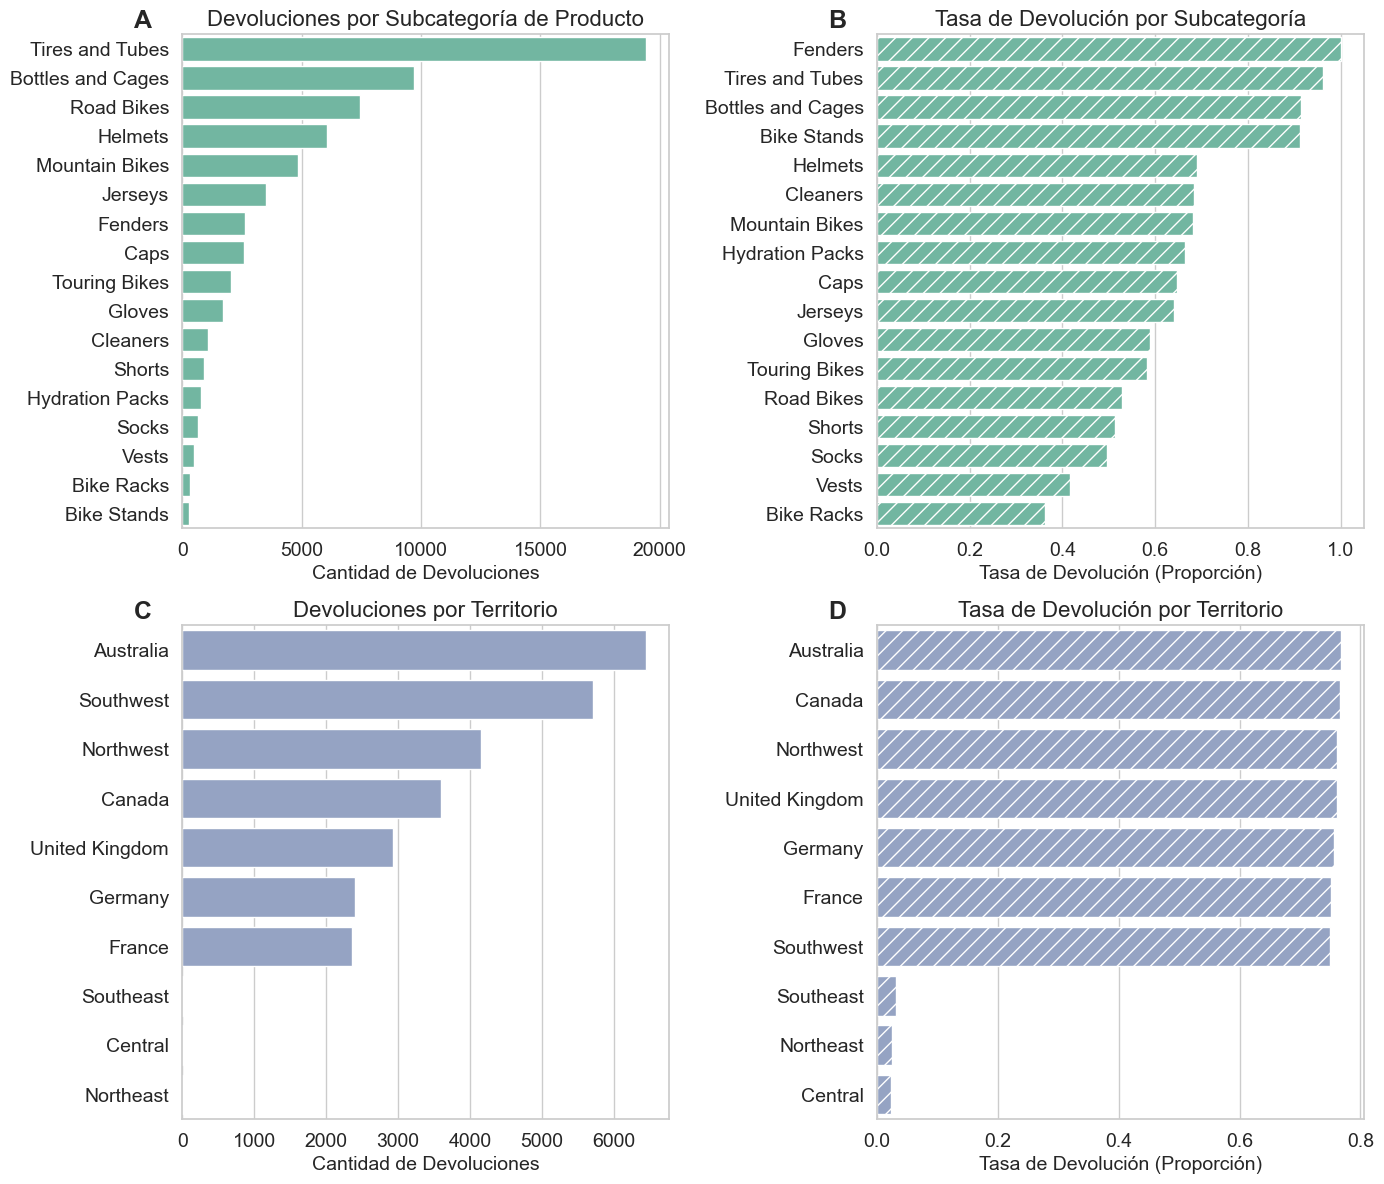
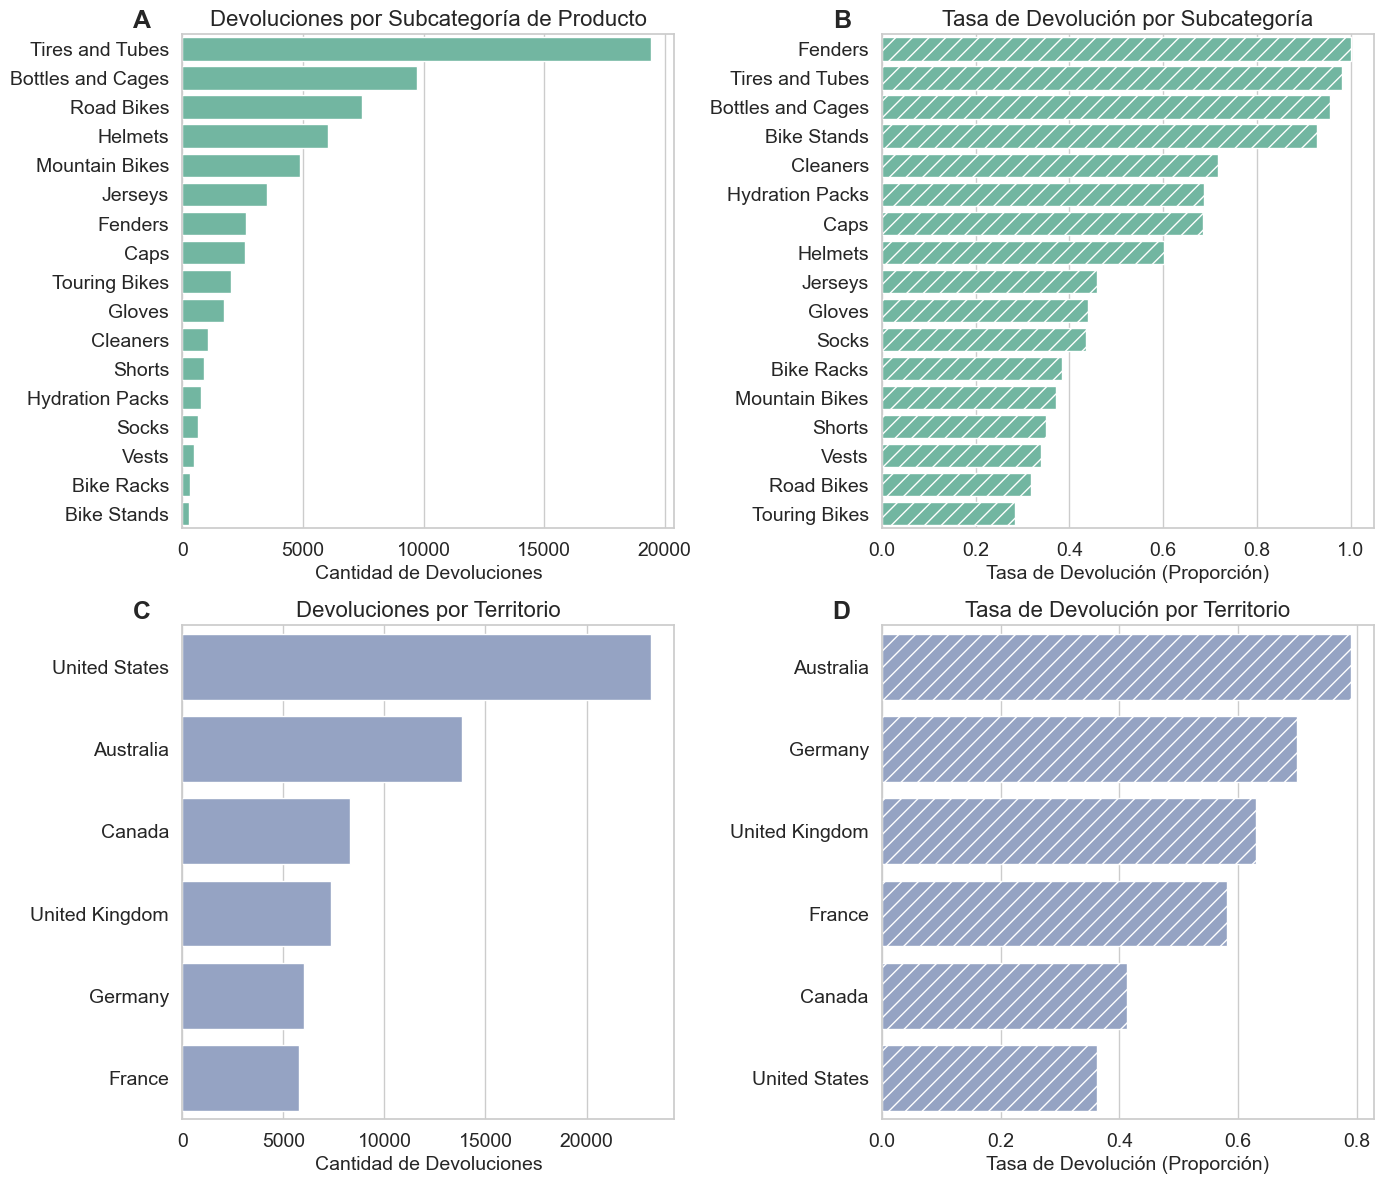
junto laas queries de tasa y devoluciones

diff --git a/TP/PythonCode/Main.py b/TP/PythonCode/Main.py
@@ -87,9 +87,9 @@ plt.rcParams.update({
 })
 
 # Ejecutar y ordenar los datos
-df7 = ejecutar_query('devoluciones_por_subcategoria.sql').sort_values('ReturnCount', ascending=False)
-df10 = ejecutar_query('tasa_devolucion_por_subcategoria.sql').query('ReturnRate > 0').sort_values('ReturnRate', ascending=False).head(50)
-df6 = ejecutar_query('devoluciones_por_territorio.sql').sort_values('ReturnCount', ascending=False)
+df7 = ejecutar_query('tasa_devolucion_por_subcategoria.sql').sort_values('ReturnCount', ascending=False)
+df10 = ejecutar_query('tasa_devolucion_por_subcategoria.sql').sort_values('ReturnRate', ascending=False)
+df6 = ejecutar_query('tasa_devolucion_por_territorio.sql').sort_values('ReturnCount', ascending=False)
 df12 = ejecutar_query('tasa_devolucion_por_territorio.sql').sort_values('ReturnRate', ascending=False)
 
 # Colores y estilos
